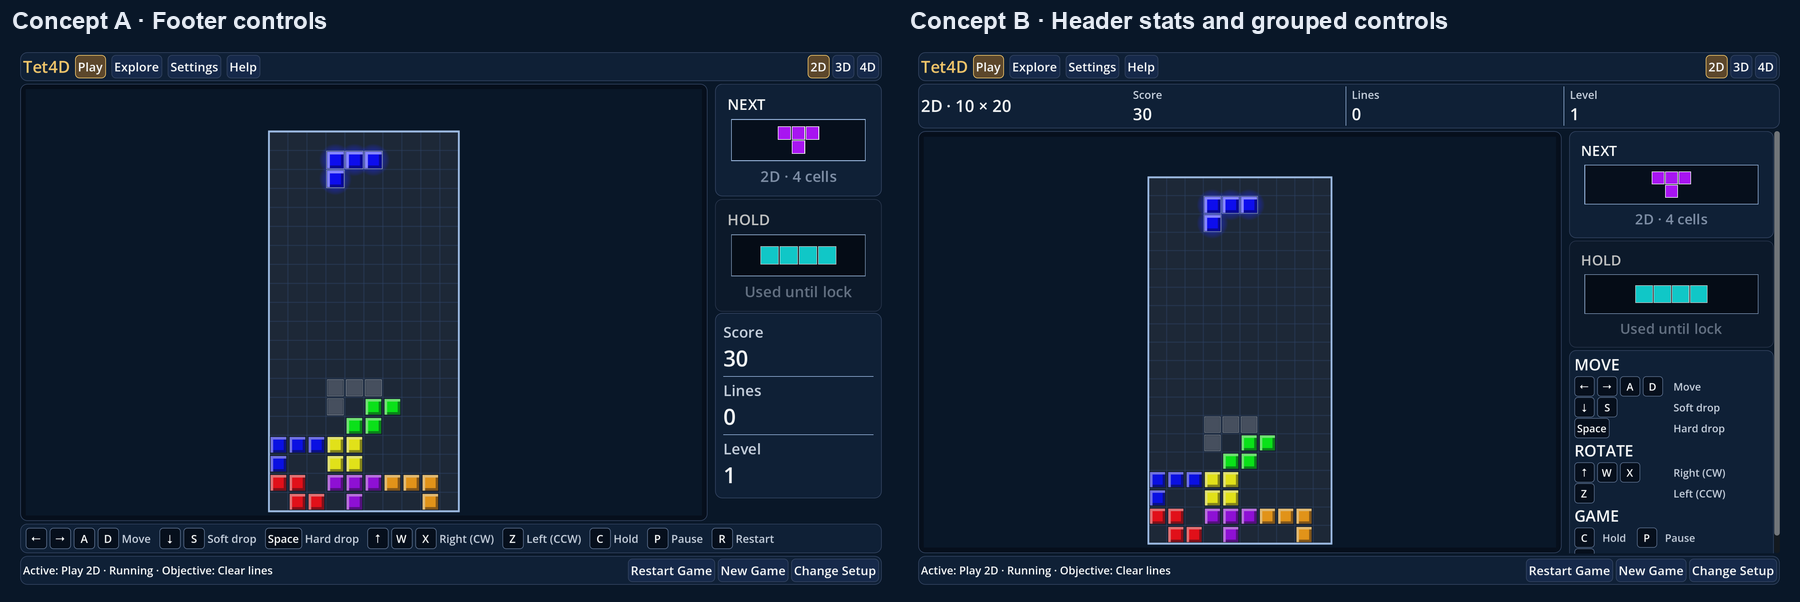
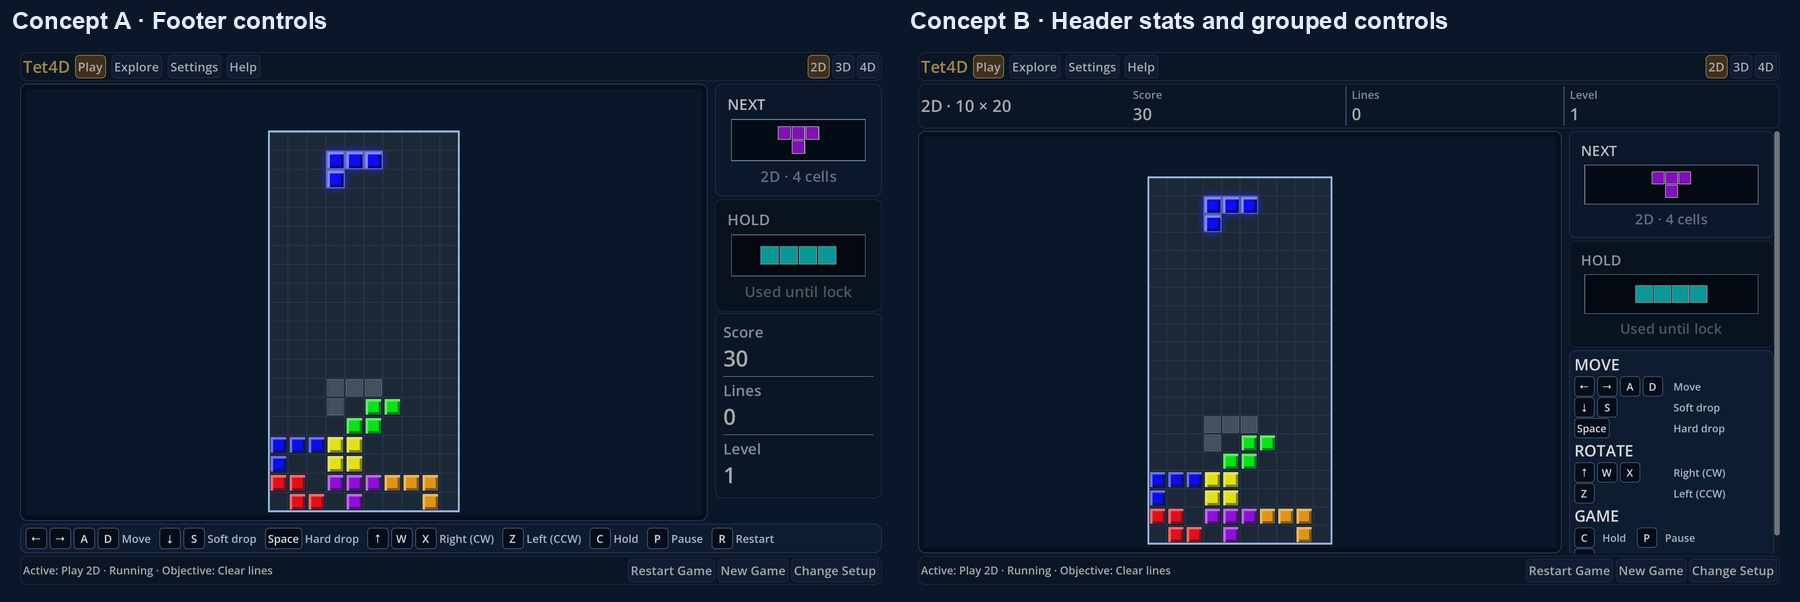
Stack spatial helper key pairs and prioritize the board in Play

diff --git a/docs/plans/graphical_language_adoption.md b/docs/plans/graphical_language_adoption.md
@@ -158,7 +158,9 @@ describes the older "calm instrument" look.
 - P3 review checks cover the projected well outline without spawn headroom
   and complete legends at the standard capture window. The owner confirmed
   compact footer controls with inline movement arrows and rotation-plane
-  glyphs for A and the
+  glyphs for A. Stack each spatial key pair vertically beside its cue. During Play,
+  give the board full brightness, then the helper, previews and finally chrome.
+  Preserve full contrast in accessibility mode. Use the
   grouped legend with MOVE compass and rotation-plane glyphs and labels for B. Concept B pairs NEXT and HOLD
   across one row in 3D/4D to fit the legend at standard scale.
   Full-size ready and seeded midgame captures show both layout choices.

diff --git a/docs/design/screenshots/graphical_language_p3/README.md b/docs/design/screenshots/graphical_language_p3/README.md
@@ -16,7 +16,8 @@ Concept A on the left and Concept B on the right.
 The owner approved both cockpit arrangements, with Concept A as the default
 and separate W slices in both. Concept A keeps the compact footer with inline
 arrows beside the spatial movement keys and rotation glyphs beside each
-paired binding. Concept B shows the grouped spatial
+vertically stacked pair. During Play the well has full brightness, followed by
+the helper, previews and shell chrome. Concept B shows the grouped spatial
 legend in the side rail, with NEXT and HOLD paired above it in 3D and 4D.
 
 [Concept A 3D at 1280 × 720](concept-a-3d-1280x720.png) shows the opening

diff --git a/CURRENT_STATE.md b/CURRENT_STATE.md
@@ -18,7 +18,7 @@ with header stats and side controls. Both keep separate W slices. P3 review foll
 legend visibility and full-size capture evidence. The layout lock measures
 well outlines separately from camera-fit padding. The owner directed
 compact footer controls with inline movement arrows and rotation-plane
-glyphs for A and grouped
+glyphs for A, vertical spatial key pairs, board-first Play brightness and grouped
 spatial controls for B. Follow-up covers preview captions, compact-footer
 spacing and player-facing W-slice labels. The latest review integrates the
 larger wells, empty HOLD slot and Concept B stats header. Tighter W gutters

diff --git a/docs/BACKLOG.md b/docs/BACKLOG.md
@@ -33,7 +33,7 @@ Completed chronology is recoverable from Git, merged PRs, CI, and
 
 - P3 review: recover board height, lock standard-window legend visibility,
   highlight Start and retain full-size Ready and seeded midgame evidence for
-  both layouts, with inline movement and rotation glyphs in A and the
+  both layouts, with vertical spatial key pairs and inline glyphs in A, board-first brightness, and the
   grouped legend in B.
   Preserve live-only tighter W spacing and the 1280 × 720 3D allocation
   floor when integrating the reviewed cockpit refinements.

diff --git a/docs/CONFIGURATION_REFERENCE.md b/docs/CONFIGURATION_REFERENCE.md
@@ -2763,6 +2763,9 @@ Parameters:
 - `cockpit.board.frame_padding`: `4.0` (`float`)
 - `cockpit.board.slice_gutter_scale`: `0.5` (`float`)
 - `cockpit.board.slice_label_side_pad`: `0.8` (`float`)
+- `cockpit.brightness.chrome`: `0.68` (`float`)
+- `cockpit.brightness.helper`: `0.88` (`float`)
+- `cockpit.brightness.preview`: `0.76` (`float`)
 - `cockpit.compass_arrow_length`: `34.0` (`float`)
 - `cockpit.empty_slot.dash_length`: `22.0` (`float`)
 - `cockpit.empty_slot.dash_width`: `2.0` (`float`)
